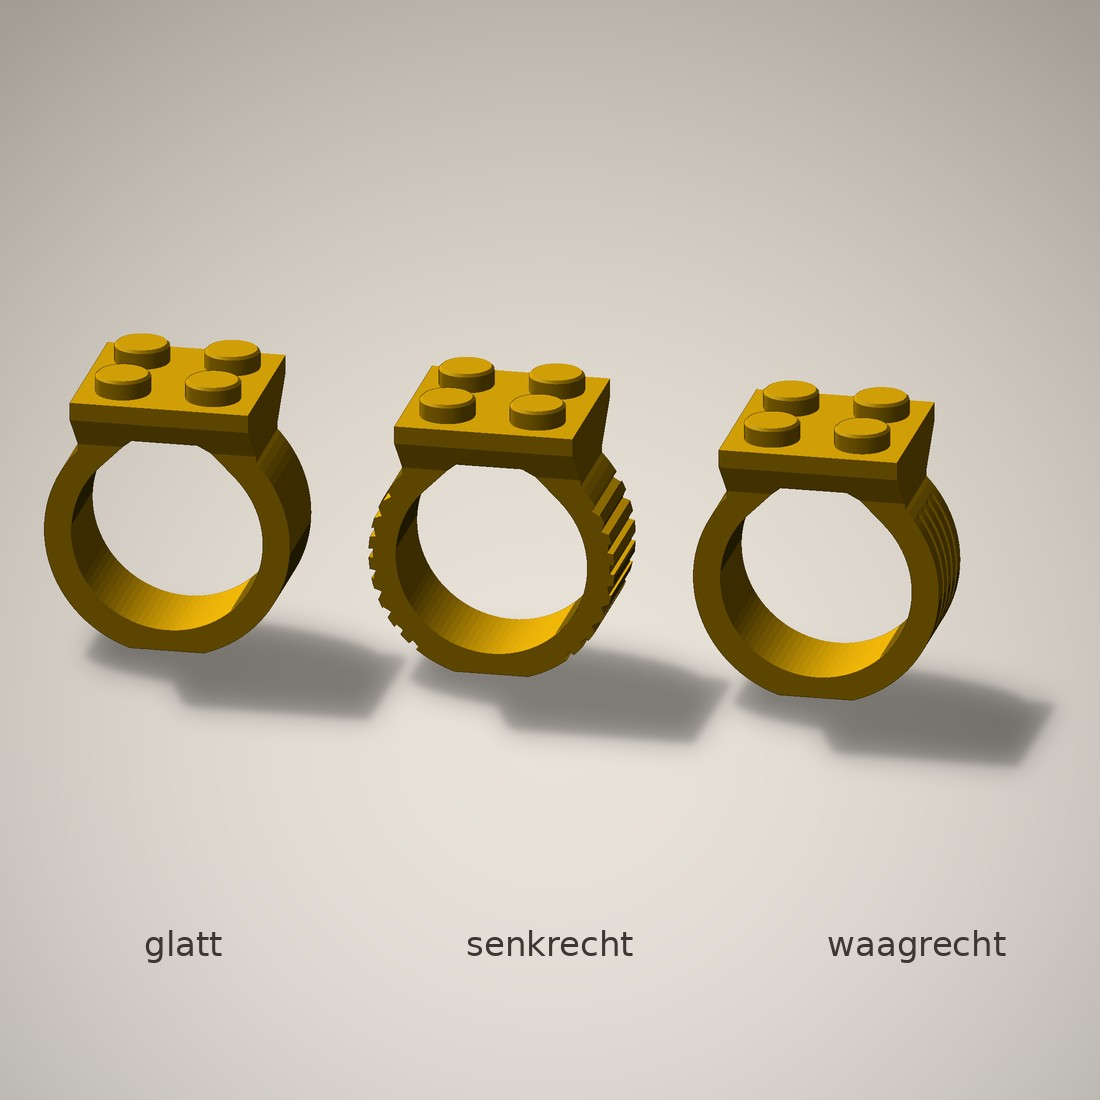
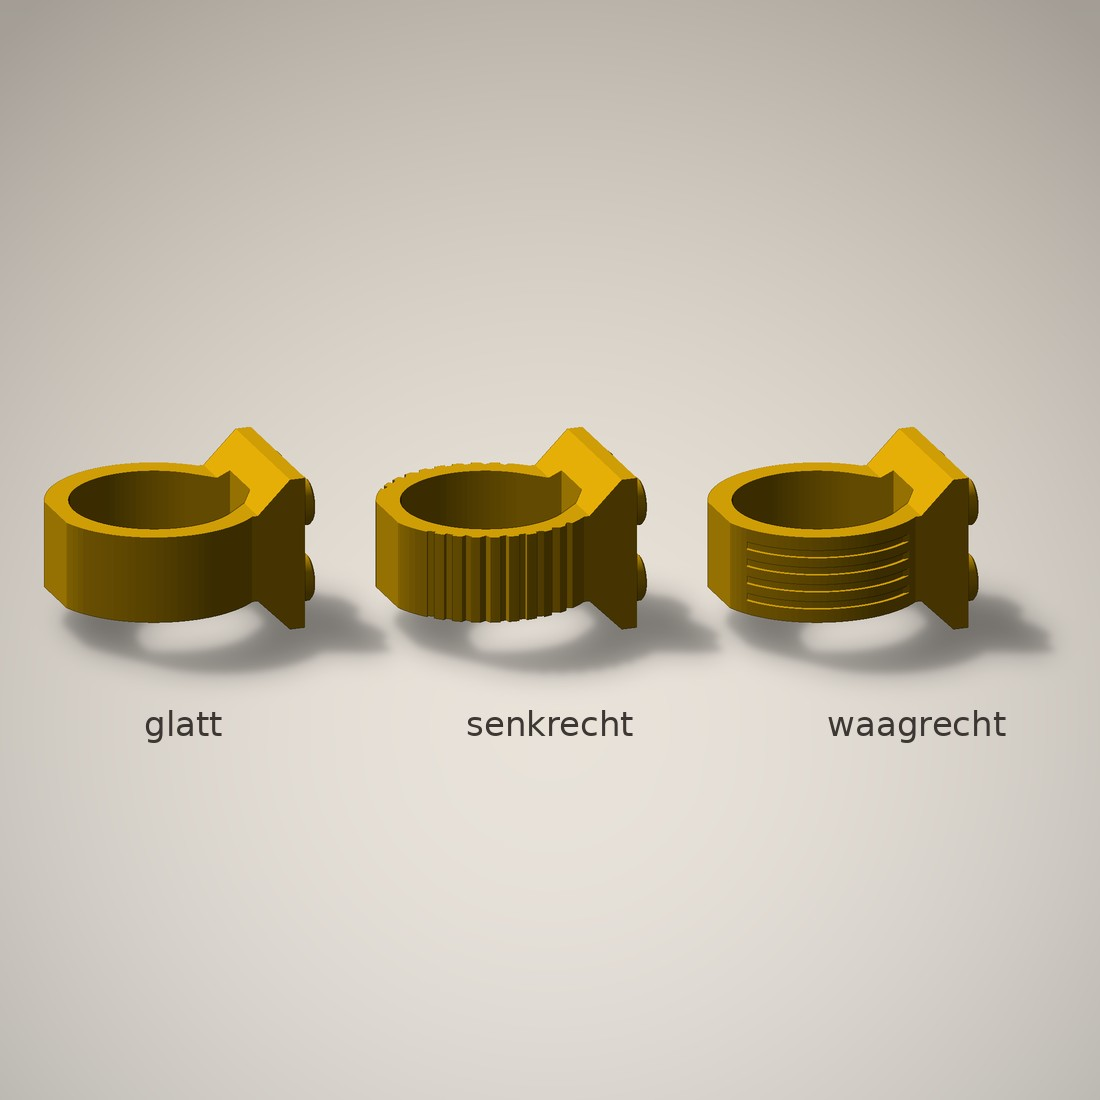
Noppen-Ringe: Musterbilder mit liegenden Ringen, Muster von der Seite gut sichtbar
Claude-Session: https://claude.ai/code/session_018qFe73yLLU8oehHLNUqKHi

diff --git a/3d-druck/src/shop_renders_ringe.py b/3d-druck/src/shop_renders_ringe.py
@@ -44,14 +44,20 @@ def row(meshes, gap=7.0):
     return out
 
 
-def labels(im, texts):
+def lying(m):
+    """Ring hinlegen (Achse senkrecht), Sockel nach hinten-rechts drehen, auf z=0 stellen."""
+    m = m.rotate((90, 0, 0)).rotate((0, 0, 110))
+    return m.translate((0, 0, -m.bounding_box()[2]))
+
+
+def labels(im, texts, y=0.84):
     d = ImageDraw.Draw(im)
     f = ImageFont.truetype(FONT, 34)
     n = len(texts)
     for k, t in enumerate(texts):
         w = d.textlength(t, font=f)
         x = (k + 0.5) * im.width / n - w / 2
-        d.text((x, im.height * 0.84), t, fill=(60, 55, 50), font=f)
+        d.text((x, im.height * y), t, fill=(60, 55, 50), font=f)
     return im
 
 
@@ -84,9 +90,10 @@ def main():
         # 1) Titelbild
         hero = R.build(v, 17, "glatt")
         S.render([(tm(hero), col, g)], 24, -58, fill=0.70).save(OUT / f"{fn}-1.jpg", quality=90)
-        # 2) Muster
-        ms = row([R.build(v, 17, p) for p in PATTERNS])
-        labels(S.render([(m, col, g) for m in ms], 20, -78, fill=0.92), ["glatt", "senkrecht", "waagrecht"]).save(OUT / f"{fn}-2.jpg", quality=90)
+        # 2) Muster: Ringe liegend (wie auf dem Tisch), Blick seitlich auf den Reif ->
+        #    "senkrecht" erscheint senkrecht, "waagrecht" waagrecht; Noppen zeigen schräg nach hinten
+        ms = row([lying(R.build(v, 17, p)) for p in PATTERNS], gap=6.0)
+        labels(S.render([(m, col, g) for m in ms], 20, -90, fill=0.92), ["glatt", "senkrecht", "waagrecht"], y=0.64).save(OUT / f"{fn}-2.jpg", quality=90)
         # 3) Größen
         gs = row([R.build(v, d, "waagrecht") for d, _ in SIZES])
         labels(S.render([(m, col, g) for m in gs], 20, -78, fill=0.92), [f"{n} {d} mm" for d, n in SIZES]).save(OUT / f"{fn}-3.jpg", quality=90)
